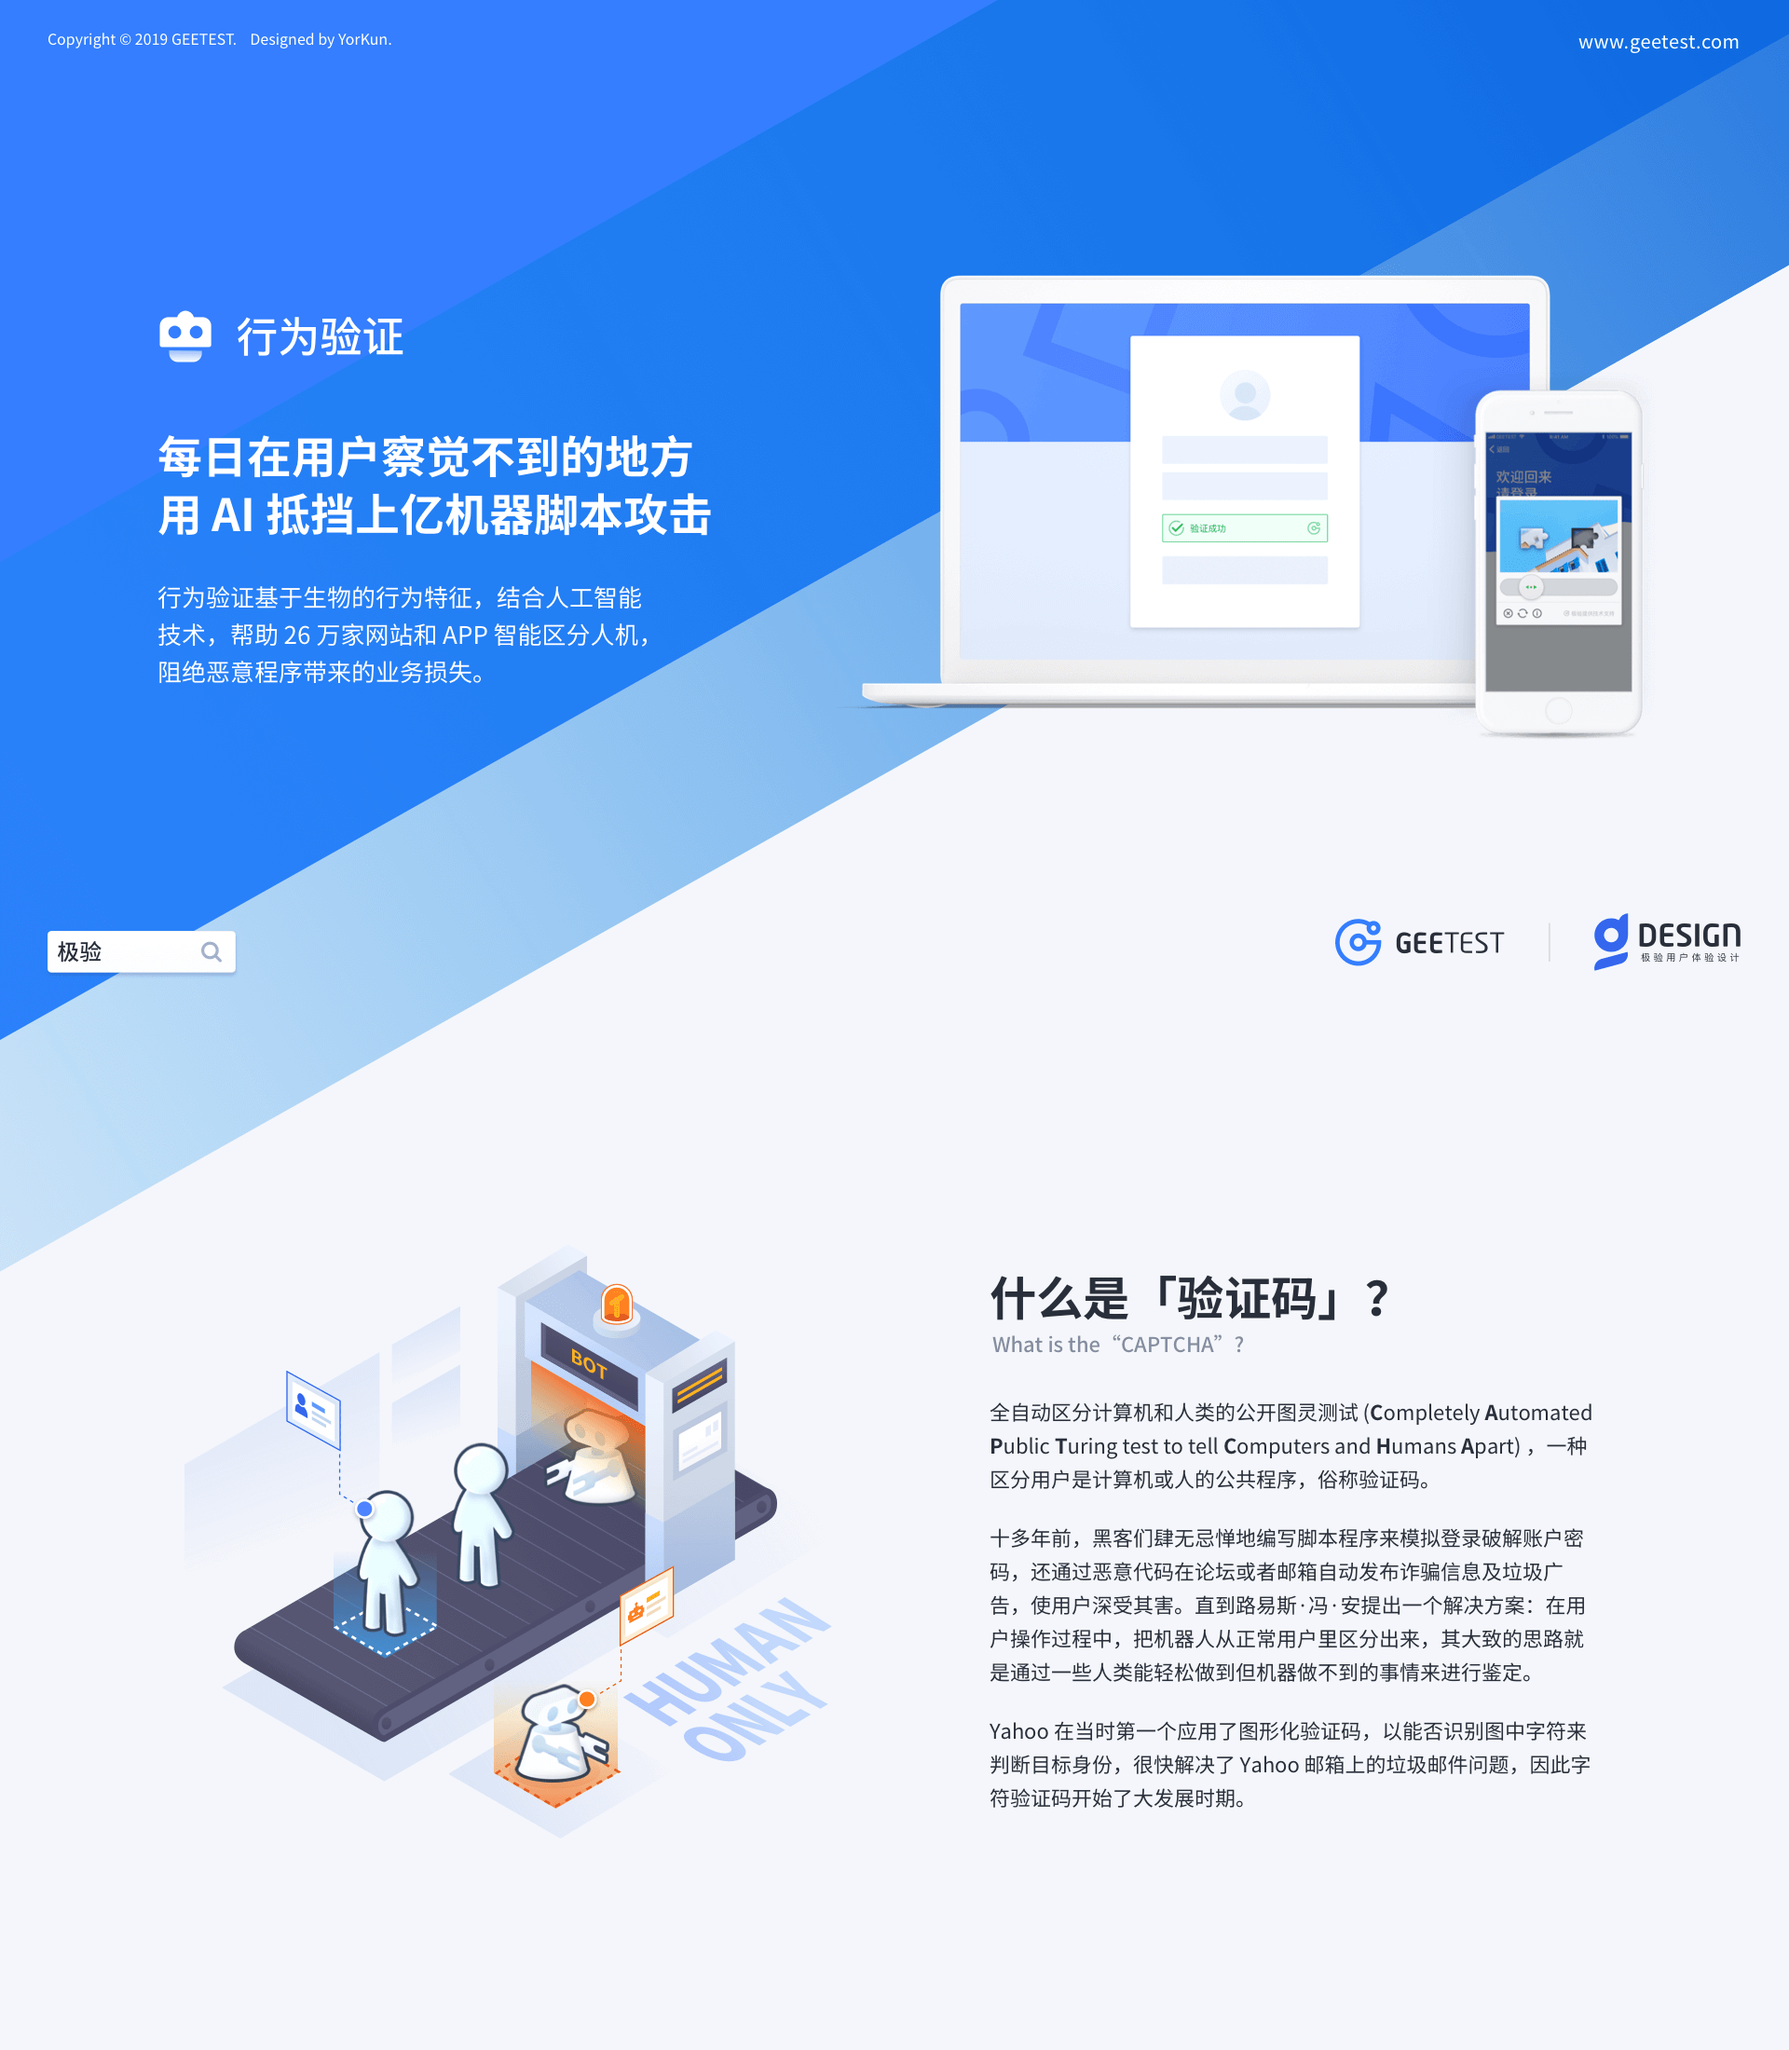
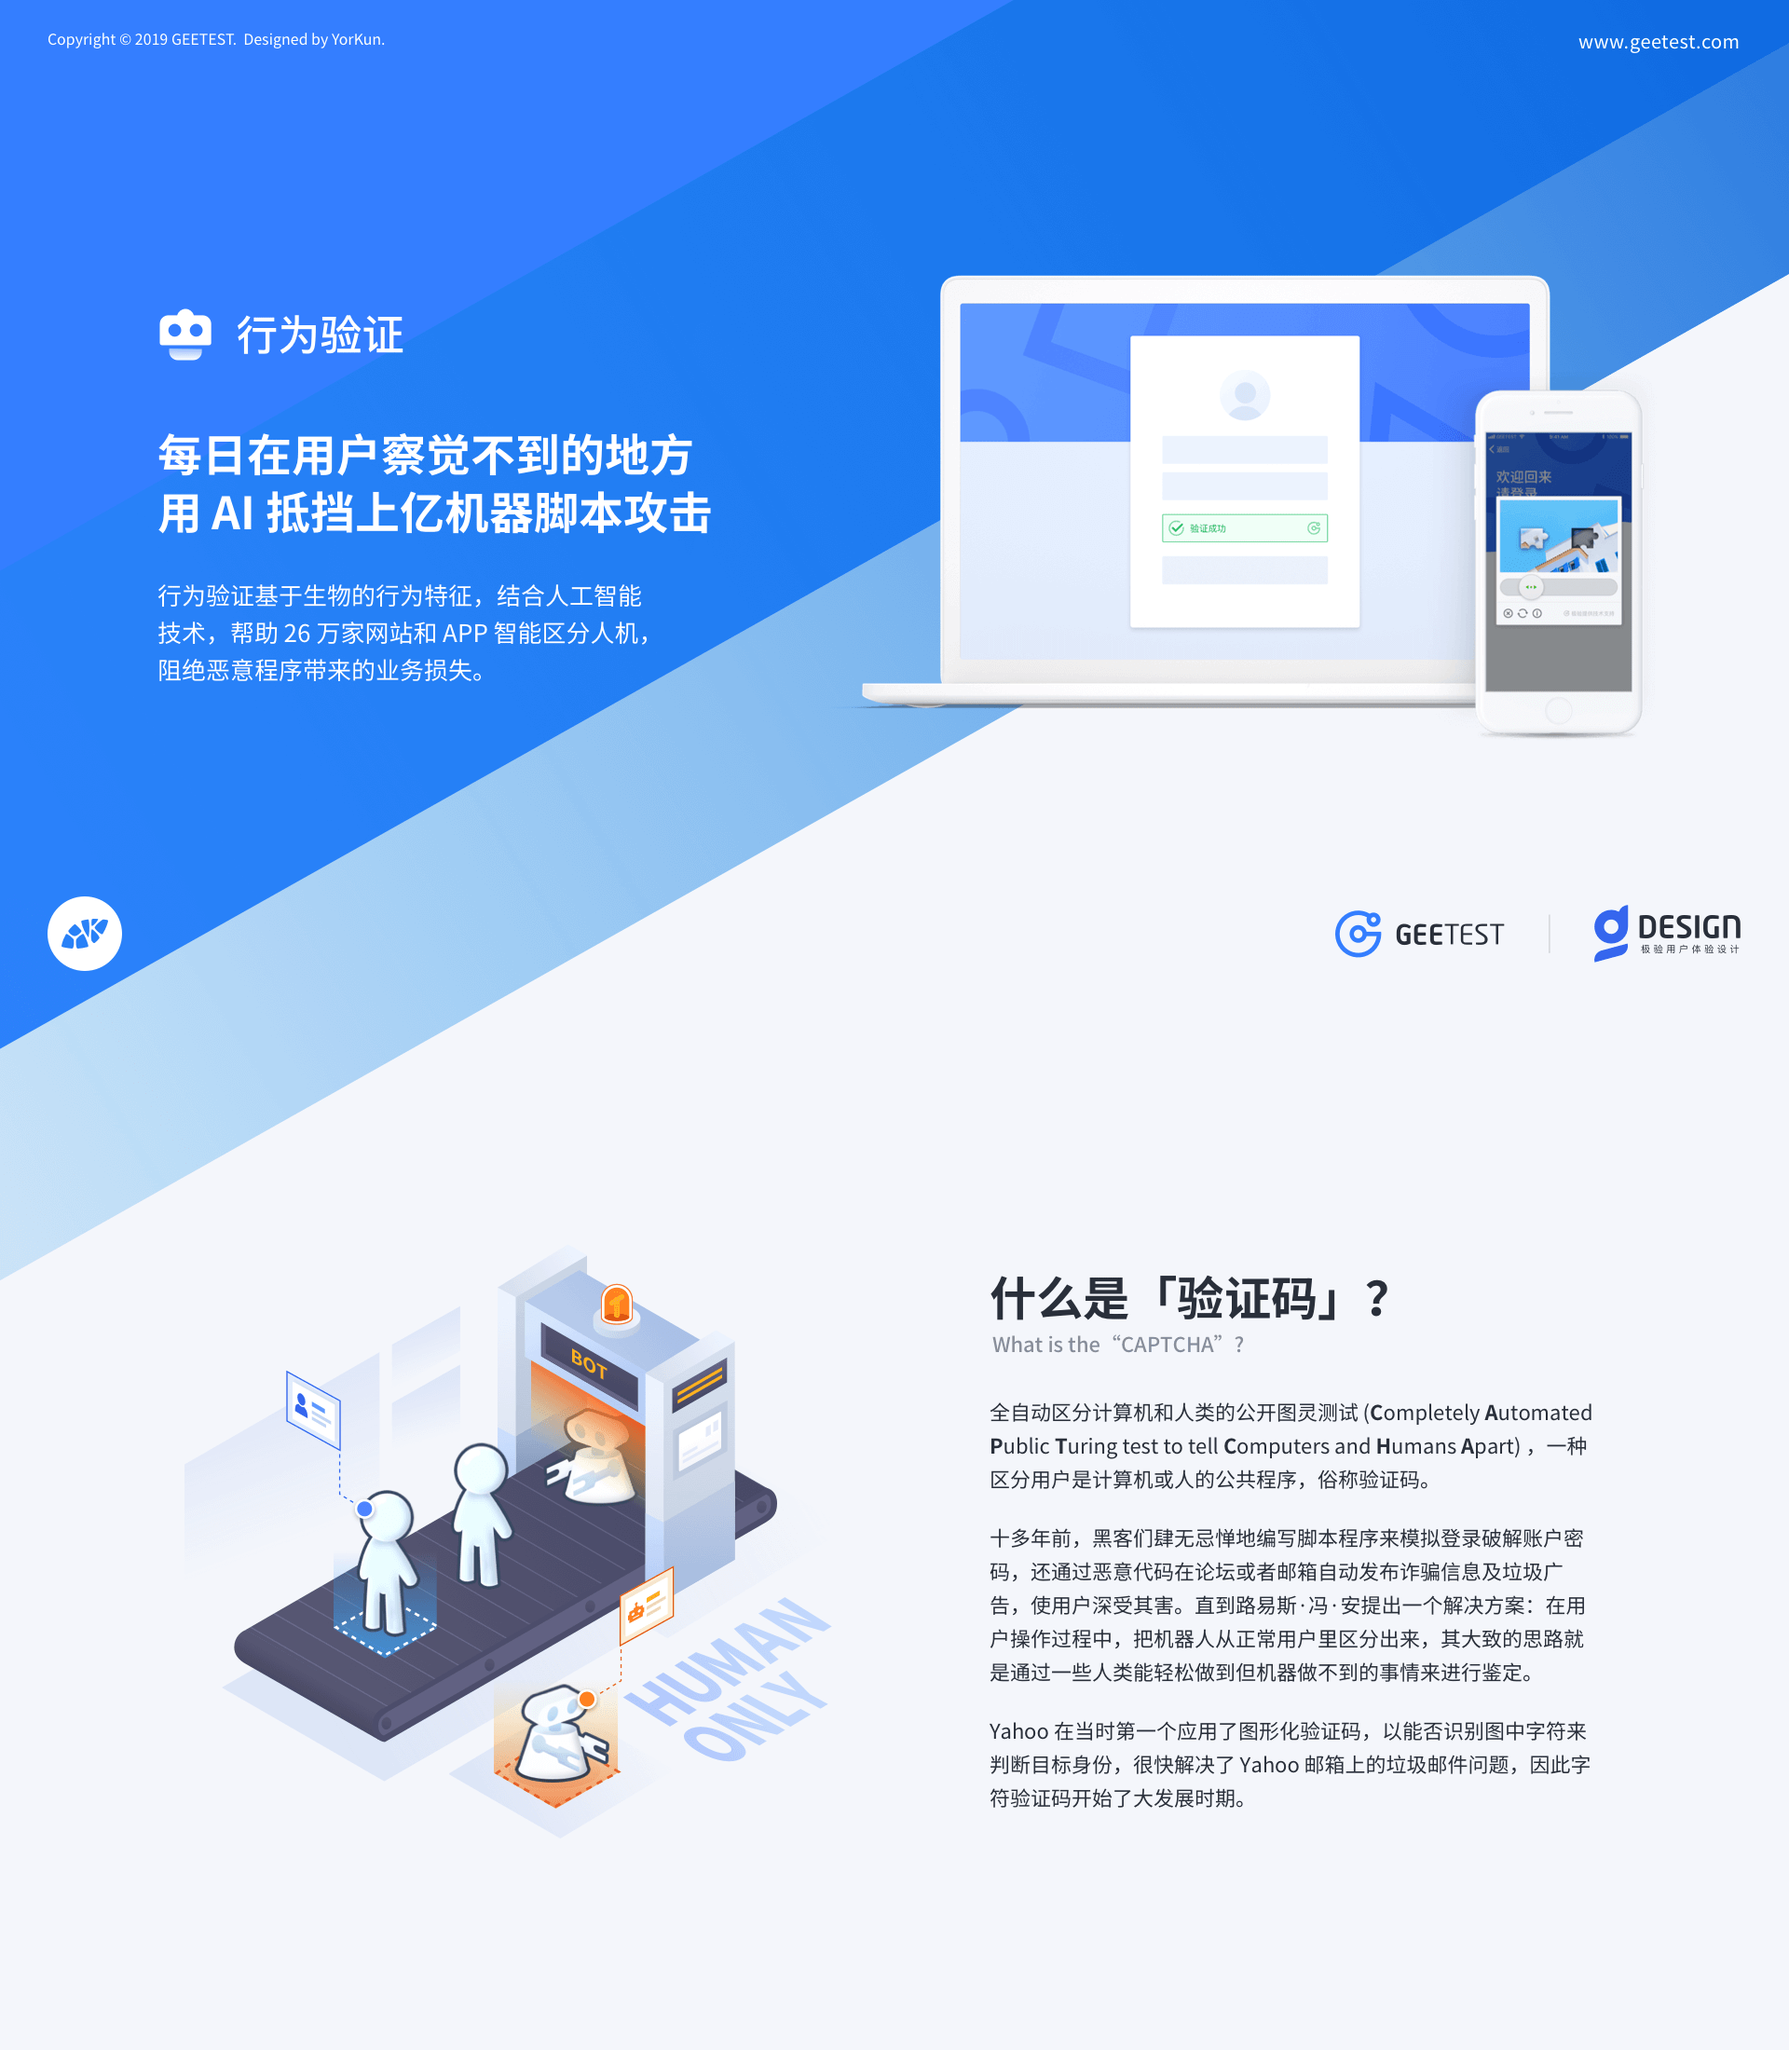
-

diff --git a/src/views/Article-1.vue b/src/views/Article-1.vue
@@ -32,11 +32,11 @@ export default {
       links: [
         {
           title: '「行为验证」在线体验',
-          href: 'https://SSS.COM',
+          href: 'https://www.geetest.com/show/',
         },
         {
           title: '《滑动拼图验证背后的故事》',
-          href: 'https://SSS.COM',
+          href: 'https://geetest.design/#/article/2019-05-23?time=2019-05-23%20%E5%8F%91%E5%B8%83&tags=%E5%8E%9F%E5%88%9B%E5%86%85%E5%AE%B9&tags=UI&view=1023',
         },
       ],
 
@@ -103,6 +103,9 @@ export default {
         },
         {
           src: require('../assets/article/1/CAP-21.png'),
+        },
+        {
+          src: require('../assets/article/1/CAP-22.png'),
         },
       ],
     };

diff --git a/src/components/articleNav.vue b/src/components/articleNav.vue
@@ -3,7 +3,7 @@
     <div class="nav-wrap">
       <img src="../assets/index/small_logo.svg" alt />
       <a href="/">
-        <img src="../assets/index/small_logo.svg" alt />
+        <img src="../assets/back.svg" alt />
       </a>
     </div>
   </div>
